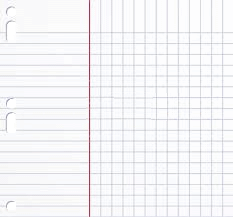
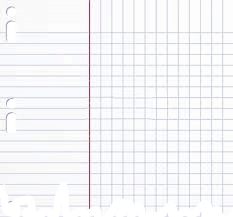
assignement background and font, minor changes for print media

diff --git a/linux/index.html b/linux/index.html
@@ -72,7 +72,6 @@
                                 <li><a href="#/tr">transform text</a></li>
                                 <li><a href="#/cut">cut by columns</a></li>
                                 <li><a href="#/awk">complex matching</a></li>
-                                <li><a href="#/sort">sorting</a></li>
                                 <li><a href="#/wc">counting</a></li>
                             </ul>
                         </li>                        
@@ -193,7 +192,7 @@
                 </blockquote>
                  <div class="container text-center left">
                     <div class="row">
-                        <div class="col-md-8 initialism akzent1">user programs</div>
+                        <div class="col-md-8 akzent1">user programs</div>
                     </div>
                     <div class="row">
                         <div class="col-md-8 text1"><small>system calls</small></div>
@@ -705,7 +704,7 @@
                 <header>I need Help !!</header>
                 <dl class="dl-horizontal">
                     <dt>man</dt>
-                    <dd><em>manuals</em> - also called <em>manpages</em> - documentation about nearly every command (can be localized: e.g. <code>manpages-de</code></dd>
+                    <dd><em>manuals</em> - also called <em>manpages</em> - documentation about nearly every command (can be localized: e.g. <code>manpages-de</code>)</dd>
                     <dd><kbd>man &lt;command&gt;</kbd></dd>
                     <dt>info</dt>
                     <dd>similar to <code>man</code> ... just type <kbd>info</kbd> to get a list of commands and navigate through them.</dd>
@@ -823,10 +822,7 @@ user1@server1:~$ help echo</code></pre>
                         using <code>-</code> instead of <code>&lt;filenames&gt;</code> reads from standard input
                     </dd>
                     <dt>less</dt>
-                    <dd><em>text viewer</em>: <kbd>less &lt;filename&gt;</kbd></dd>
-                    <dd>
-                        navigation via arrows <i class="fa fa-arrow-up"></i>, <i class="fa fa-arrow-down"></i>, <i class="fa fa-arrow-left"></i>, <i class="fa fa-arrow-right"></i>, ... quit via <kbd>q</kbd>
-                    </dd>
+                    <dd><a href="#/moreless">see text viewers</a>: <kbd>less &lt;filename&gt;</kbd></dd>
                 </dl>
                 <footer></footer>
             </div>
@@ -1170,7 +1166,9 @@ $ cp foo ~bhuber</code></pre>
                     <dd>
                         <pre><code>$ echo Following users have a home directory: `ls /home`
 Following users have a home directory: grund foo jack</code></pre>
-                    </dd>                   
+                    </dd>              
+                    <dd>bash provides an another syntax, capable of <em>nesting</em> as well</dd>     
+                    <dd><pre><code class="bash">$ echo Following users have a home directory: <em>$(</em>ls /home<em>)</em></code></pre></dd>
                 </dl>
                 <footer></footer>
             </div>
@@ -1252,20 +1250,20 @@ one plus one: 2</code></pre>
                           <i class="fa fa-circle fa-stack-1x hidden-print"></i>
                           <span class="fa-stack fa-stack-1x text0">4</span>
                         </span>
-                        command <code>`</code>
+                        command <code>`..`</code> or <code>$(...)</code>                        
                     <i class="fa fa-long-arrow-right"></i>
                         <span class="fa-stack fa-lg text5">
                           <i class="fa fa-circle fa-stack-1x hidden-print"></i>
                           <span class="fa-stack fa-stack-1x text0">5</span>
                         </span>
                         arithmetic <code>$[]</code>
+                    <br/>    
                     <i class="fa fa-long-arrow-right"></i>
                         <span class="fa-stack fa-lg text6">
                           <i class="fa fa-circle fa-stack-1x hidden-print"></i>
                           <span class="fa-stack fa-stack-1x text0">6</span>
                         </span>
-                        words <code>'',""</code>
-                    <br/>
+                        words <code>'',""</code>                    
                     <i class="fa fa-long-arrow-right"></i>
                         <span class="fa-stack fa-lg text1">
                           <i class="fa fa-circle fa-stack-1x hidden-print"></i>
@@ -1294,7 +1292,7 @@ $figure</code></pre></li>
                         </span>
                     </li>
                     <li data-jmpress="appear after 2s prev">
-                        create an <code>echo</code> command line, which <em>welcomes you</em> on the command line as well as  the <em>current date</em>. Use variables, so that the command line run on your neighbors shell outputs the right username ...
+                        create an <code>echo</code> command line, which <em>welcomes you</em> on the command line as well as  the <em>current date</em>. Use variables, so that the command line <em>run on your neighbors shell</em> outputs the right username ...
                         <pre><code>$ echo <em>...</em>
 Welcome mr/mrs <em>grund</em> to our training, today is <em>Do, 28. Aug 2014 10:02:46</em></code></pre>
                     </li>                        
@@ -1369,15 +1367,16 @@ Welcome mr/mrs <em>grund</em> to our training, today is <em>Do, 28. Aug 2014 10:
                         <tr>
                             <th class="col-md-1">channel</th>
                             <th class="col-md-2 text-center">syntax</th>
+                            <th class="col-md-2">description</th>
                         </tr>
                     </thead>
                     <tbody>
                         <tr>
                             <th class="text-info">stdin</th>
                             <td>
-                                command <i class="fa fa-chevron-left text-info"></i> file
-                                <em>(read from file)</em>
+                                command <i class="fa fa-chevron-left text-info"></i> file                                
                             </td>
+                            <td>read from file</td>
                         </tr>
                         <tr>
                             <th class="text-info">stdin</th>
@@ -1385,7 +1384,10 @@ Welcome mr/mrs <em>grund</em> to our training, today is <em>Do, 28. Aug 2014 10:
                                 command 
                                 <i class="fa fa-chevron-left text-info"></i>
                                 <i class="fa fa-chevron-left text-info"></i>
-                                EOF <em>(read from stdin until ...)</em>
+                                EOF
+                            </td>
+                            <td>
+                                read from stdin until <em>EOF</em>
                             </td>
                         </tr>
                         <tr>
@@ -1393,11 +1395,15 @@ Welcome mr/mrs <em>grund</em> to our training, today is <em>Do, 28. Aug 2014 10:
                             <td>
                                 command 
                                 <i class="fa fa-chevron-right text-success"></i> 
-                                file <em>(write to file, replace)</em><br/>
+                                file<br/>
                                 command
                                 <i class="fa fa-chevron-right text-success"></i> 
                                 <i class="fa fa-chevron-right text-success"></i> 
-                                file <em>(write to file, append)</em>
+                                file
+                            </td>
+                            <td>
+                                write to file, <em>replace</em><br/>
+                                write to file, <em>append</em>
                             </td>
                         </tr>
                         <tr>
@@ -1408,14 +1414,18 @@ Welcome mr/mrs <em>grund</em> to our training, today is <em>Do, 28. Aug 2014 10:
                                     2
                                     <i class="fa fa-chevron-right"></i> 
                                 </span>    
-                                file <em>(write to file, replace)</em><br/>
+                                file<br/>
                                 command
                                 <span class="text-danger">
                                     2
                                     <i class="fa fa-chevron-right"></i> 
                                     <i class="fa fa-chevron-right"></i> 
                                 </span>    
-                                file <em>(write to file, append)</em>
+                                file
+                            </td>
+                            <td>
+                                write to file, <em>replace</em><br/>
+                                write to file, <em>append</em>
                             </td>
                         </tr>
                     </tbody>
@@ -1431,10 +1441,10 @@ file1.txt
 copied.csv
 $ ...</code></pre>
  <pre><code>$ cat <em>&lt;&lt;</em> <em>EOF</em>
-&gt; some typed text
+&gt; some text typed by myself
 &gt; in multiple lines
 &gt; <em>EOF</em>
-some typed text
+some text typed by myself
 in multiple lines
 $ ...</code></pre>
                 <pre><code>$ echo "Hello, I am `whoami` !" <em>&gt;</em> thats_me.txt
@@ -1447,7 +1457,7 @@ $ ...</code></pre>
                 <header>Pipe</header>
                 <p>The <em>pipe</em> symbol (<code>|</code>) <em>connects</em> commands:</p>
                 <ul>
-                    <li><span class="text-success">stdout</span> for first command gets connected to <span class="text-info">stdin</span> of second command.</li>
+                    <li><em class="text-success">stdout</em> of first command gets connected to <em class="text-info">stdin</em> of second command.</li>
                     <li>only works, if first command <em>writes to channel 1</em> and second command <em>reads from channel 0</em></li>
                 </ul>                
                 <br/>
@@ -1472,7 +1482,7 @@ chsh   login  passwd  rexec  rsh     squid   su    xdm   xscreensaver
                 </p>                
 <pre><code class="bash right">$ <em>ls | wc -l</em>
 18
-</code><code class="bash">$ <em>ls | xargs wc -l</em>         <span class="text3"><i class="fa fa-lg fa-arrow-left"></i><i class="fa fa-lg fa-arrow-right"></i></span>
+</code><code class="bash">$ <em>ls | xargs wc -l</em>         <span class="text3 hidden-print"><i class="fa fa-lg fa-arrow-left"></i><i class="fa fa-lg fa-arrow-right"></i></span>
 6 chfn
 6 chsh
 13 ftp
@@ -1531,7 +1541,7 @@ chsh   login  passwd  rexec  rsh     squid   su    xdm   xscreensaver
                             Can you do it in a <em>single commandline</em> <i class="fa fa-lg fa-question-circle"></i>
                         </span>
                     </li>            
-                    <li data-jmpress="appear after 1s prev">Set global variable <code>JAVA_HOME</code> to directory of <kbd>java</kbd> installation (<code>/usr/java/default</code>), for <em>all users</em>.</li>       
+                    <li data-jmpress="appear after 1s prev">How to set a global variable <code>JAVA_HOME</code> to directory of <kbd>java</kbd> installation (<code>/usr/java/default</code>), for <em>all users</em> ?</li>       
                 </ol>
             </div>
             <div id="admin" class="step slide" data-x="10500" data-y="1000">
@@ -1649,7 +1659,7 @@ $ ls -al | <em>more</em></code></pre>
                     <dt>grep</dt>
                     <dd>find <em>patterns</em> in content of <em>text</em> files</dd>
                     <dd>most used command in unix world</dd>                    
-                    <dd><kbd>grep [options] regular expression [files]</kbd></dd>
+                    <dd><kbd>grep &lt; option ... &gt; regular expression &lt; file ... &gt;</kbd></dd>
                 </dl>
                 <table class="table">
                     <caption>options</caption>
@@ -1753,8 +1763,8 @@ training1:!:1002:grund,jheydel,blaibach,wengel,mkappelar,rwoelflik,...</code></p
                     <p>find <code>passwd</code> entry for user <code>grund</code>:</p>
                     <pre><code class="bash">$ grep '^grund:' /etc/passwd
 grund:x:1003:100:grund:/home/grund:/bin/bash</code></pre>
-                    <p>search for all names within <code>character_list</code> <em>staring</em> with <code>m</code> and <em>ending</em> with <code>ix</code>:<p>
-                    <pre><code class="bash">$ grep '^M.*ix$' asterix/character_list
+                    <p>search for all names within <code>character_list</code> <em>starting</em> with <code>M</code> and <em>ending</em> with <code>ix</code>:<p>
+                    <pre><code class="bash">$ grep '<em>^M</em>.*<em>ix</em>$' asterix/character_list
 Machtnix
 Magnix
 Majestix
@@ -1762,7 +1772,7 @@ Methusalix
 Middlesix
 Miraculix</code></pre>                               
             </div>   
-            <div id="assignmentGrep" class="step assignment" data-x="-4500" data-y="2000" data-z="-750" data-rotate-y="90">
+            <div id="assignmentGrep" class="step assignment under-construction" data-x="-4500" data-y="2000" data-z="-750" data-rotate-y="90">
                 <header class="akzent2"><i class="fa fa-cog fa-spin"></i> Assignment #8</header>
                 <p class="lead">... find within files ...</p>
                 <ol>
@@ -1773,45 +1783,45 @@ Miraculix</code></pre>
                 </ol>
             </div>
                   
-            <div id="sed" class="step slide" data-x="-6000" data-y="2000" data-rotate-x="67">
+            <div id="sed" class="step slide under-construction" data-x="-6000" data-y="2000" data-rotate-x="67">
                 <header>search and replace</header> 
                 <dl>
                     <dt>sed</dt>
                     <dd><em>s</em>tream <em>ed</em>itor: editor useable as filter syntax common to <a href="#/grep">grep</a> or <a href="#/vi">vi</a>.</dd>
                     <dd>without a <em>file</em> parameter, sed processes standard input, output goes to standard out.</dd>
                     <dd>If more than one expression argument is passed to sed, sed works from left to right.</dd>
-                    <dd><kbd>sed -e 'expression 1' [ -e 'expression 2' ... ] [ file ]</kbd></dd>
+                    <dd><kbd>sed -e 'expression 1' &lt; -e 'expression 2' ... &gt; &lt; file &gt;</kbd></dd>
                 </dl>
                 <footer></footer>
             </div>
-            <div id="tr" class="step slide" data-x="-7500" data-y="2000" data-rotate-x="90">
+            <div id="tr" class="step slide under-construction" data-x="-7500" data-y="2000" data-rotate-x="90">
                 <header>transform text</header>
+                <kbd>tr</kbd>    
                 <footer></footer>
             </div>
-            <div id="cut" class="step slide" data-x="-9000" data-y="2000" data-rotate-x="112">
+            <div id="cut" class="step slide under-construction" data-x="-9000" data-y="2000" data-rotate-x="112">
                 <header>cut by columns</header>
+                <kbd>cut</kbd>
                 <footer></footer>
             </div>
-            <div id="awk" class="step slide" data-x="-10500" data-y="2000" data-rotate-x="135">
+            <div id="awk" class="step slide under-construction" data-x="-10500" data-y="2000" data-rotate-x="135">
                 <header>complex matching</header>
+                <kbd>awk</kbd>
                 <footer></footer>
-            </div>
-            <div id="sort" class="step slide" data-x="-12000" data-y="2000" data-rotate-x="157">
-                <header>sorting</header>
-                <footer></footer>
-            </div>
-            <div id="wc" class="step slide" data-x="-13500" data-y="2000" data-rotate-x="180">
+            </div>            
+            <div id="wc" class="step slide under-construction" data-x="-12000" data-y="2000" data-rotate-x="157">
                 <header>counting</header>
+                <kbd>wc</kbd>
                 <footer></footer>
             </div>
-            <div id="otherFilter" class="step slide" data-x="-15000" data-y="2000" data-rotate-x="202">
+            <div id="otherFilter" class="step slide under-construction" data-x="-13500" data-y="2000" data-rotate-x="180">
                 <header>more filter</header>
                 <dl class="dl-horizontal">
+                    <dt>sort</dt>
+                    <dd><kbd>sort &lt;file&gt;</kbd></dd>
                     <dt>unique</dt>
-                    <dd>removes duplicate lines</dd>
-                    <dd><i class="fa fa-warning text-danger"></i> make sure lines are <a href="#/sort">sort</a>ed ... </dd>
-                    <dt></dt>
-                    <dd></dd>
+                    <dd>removes duplicate lines <kbd>unique &lt;file&gt;</kbd></dd>
+                    <dd><i class="fa fa-warning text-danger"></i> make sure lines are <em>sort</em>ed ... </dd>                    
                     <dt></dt>
                     <dd></dd>
                 </dl>
@@ -1821,19 +1831,19 @@ Miraculix</code></pre>
                 <header>Editors</header>               
                 <footer></footer>
             </div>
-            <div id="editors" class="step slide" data-x="1500" data-y="3000">
+            <div id="editors" class="step slide under-construction" data-x="1500" data-y="3000">
                 <header>textual editors</header>
                 <footer></footer>
             </div>
-            <div id="vi" class="step slide" data-x="3000" data-y="3000">
+            <div id="vi" class="step slide under-construction" data-x="3000" data-y="3000">
                 <header>vi</header>
                 <footer></footer>
             </div>
-            <div id="emacs" class="step slide" data-x="4500" data-y="3000">
+            <div id="emacs" class="step slide under-construction" data-x="4500" data-y="3000">
                 <header>emacs</header>
                 <footer></footer>
             </div>
-            <div id="otherEditor" class="step slide" data-x="4500" data-y="4000" data-rotate-z="90">
+            <div id="otherEditor" class="step slide under-construction" data-x="4500" data-y="4000" data-rotate-z="90">
                 <header>others ...</header>
                 <dl class="dl-horizontal">
                     <dt>nano</dt>

diff --git a/linux/css/linux.css b/linux/css/linux.css
@@ -1,4 +1,5 @@
 @import url(../../bisnode/default.css);
+@import url(http://fonts.googleapis.com/css?family=Rock+Salt);
 
 body{
   
@@ -11,9 +12,12 @@ body{
     counter-reset: slideIdx;
 }
 
-.step.assignment {
-	background-image: url("../../bisnode/img/code-paper-x.jpg");
-    padding: 20px;
+.step.assignment {    
+	border-width: 30px 86px 35px 91px;
+    -moz-border-image: url(../../bisnode/img/code-paper.png) 30 86 35 91 repeat;
+    -webkit-border-image: url(../../bisnode/img/code-paper.png) 30 86 35 91 repeat;
+    -o-border-image: url(../../bisnode/img/code-paper.png) 30 86 35 91 repeat;
+    border-image: url(../../bisnode/img/code-paper.png) 30 86 35 91 fill repeat;
 }
 
 #backslashwarning {    
@@ -32,6 +36,8 @@ body{
 
 .assignment>header {
     padding: 10px;
+    font-family: 'Rock Salt', cursive;
+    text-shadow: 3px 3px 5px white;
 }
 
 #kernel .akzent2, #kernel .akzent1, #kernel .akzent4 {
@@ -81,12 +87,13 @@ table.table {
     .right, .left {
         width: 100%;
     }
-    #foss>header.akzent2 {
+    #foss>header.akzent2, #moreless>dl {
         page-break-before: always; 
     }
     #distributions .tab-content>.tab-pane {
         border-top: solid thick darkgray;
     }
+    
     .tab-pane {
         page-break-inside: avoid; 
     }    
